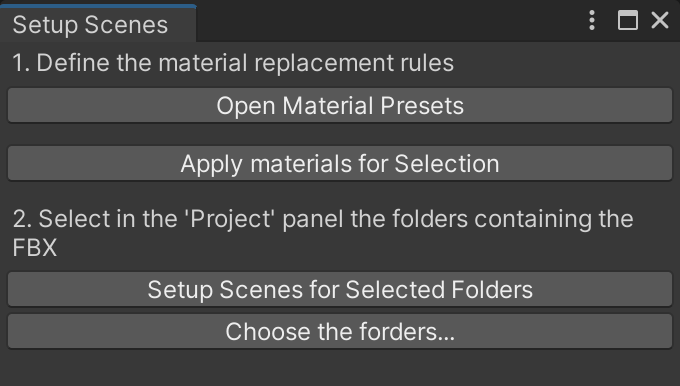
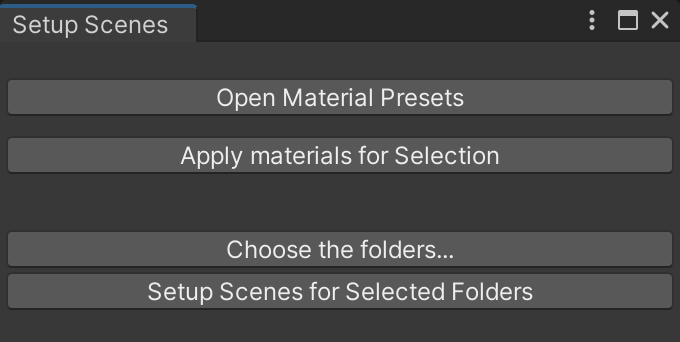
feat(portfolio): nueva captura de Setup Baking Scenes

diff --git a/js/data.js b/js/data.js
@@ -209,7 +209,7 @@ window.PORTFOLIO = {
           stack: ["Unity", "C#"],
           text: "Automation tool that sets up multiple baking scenes at once for a single project.",
           media: "img/sbs-ui.png",
-          ratio: "680 / 386",
+          ratio: "680 / 342",
         },
         {
           name: "Batch Baking",
